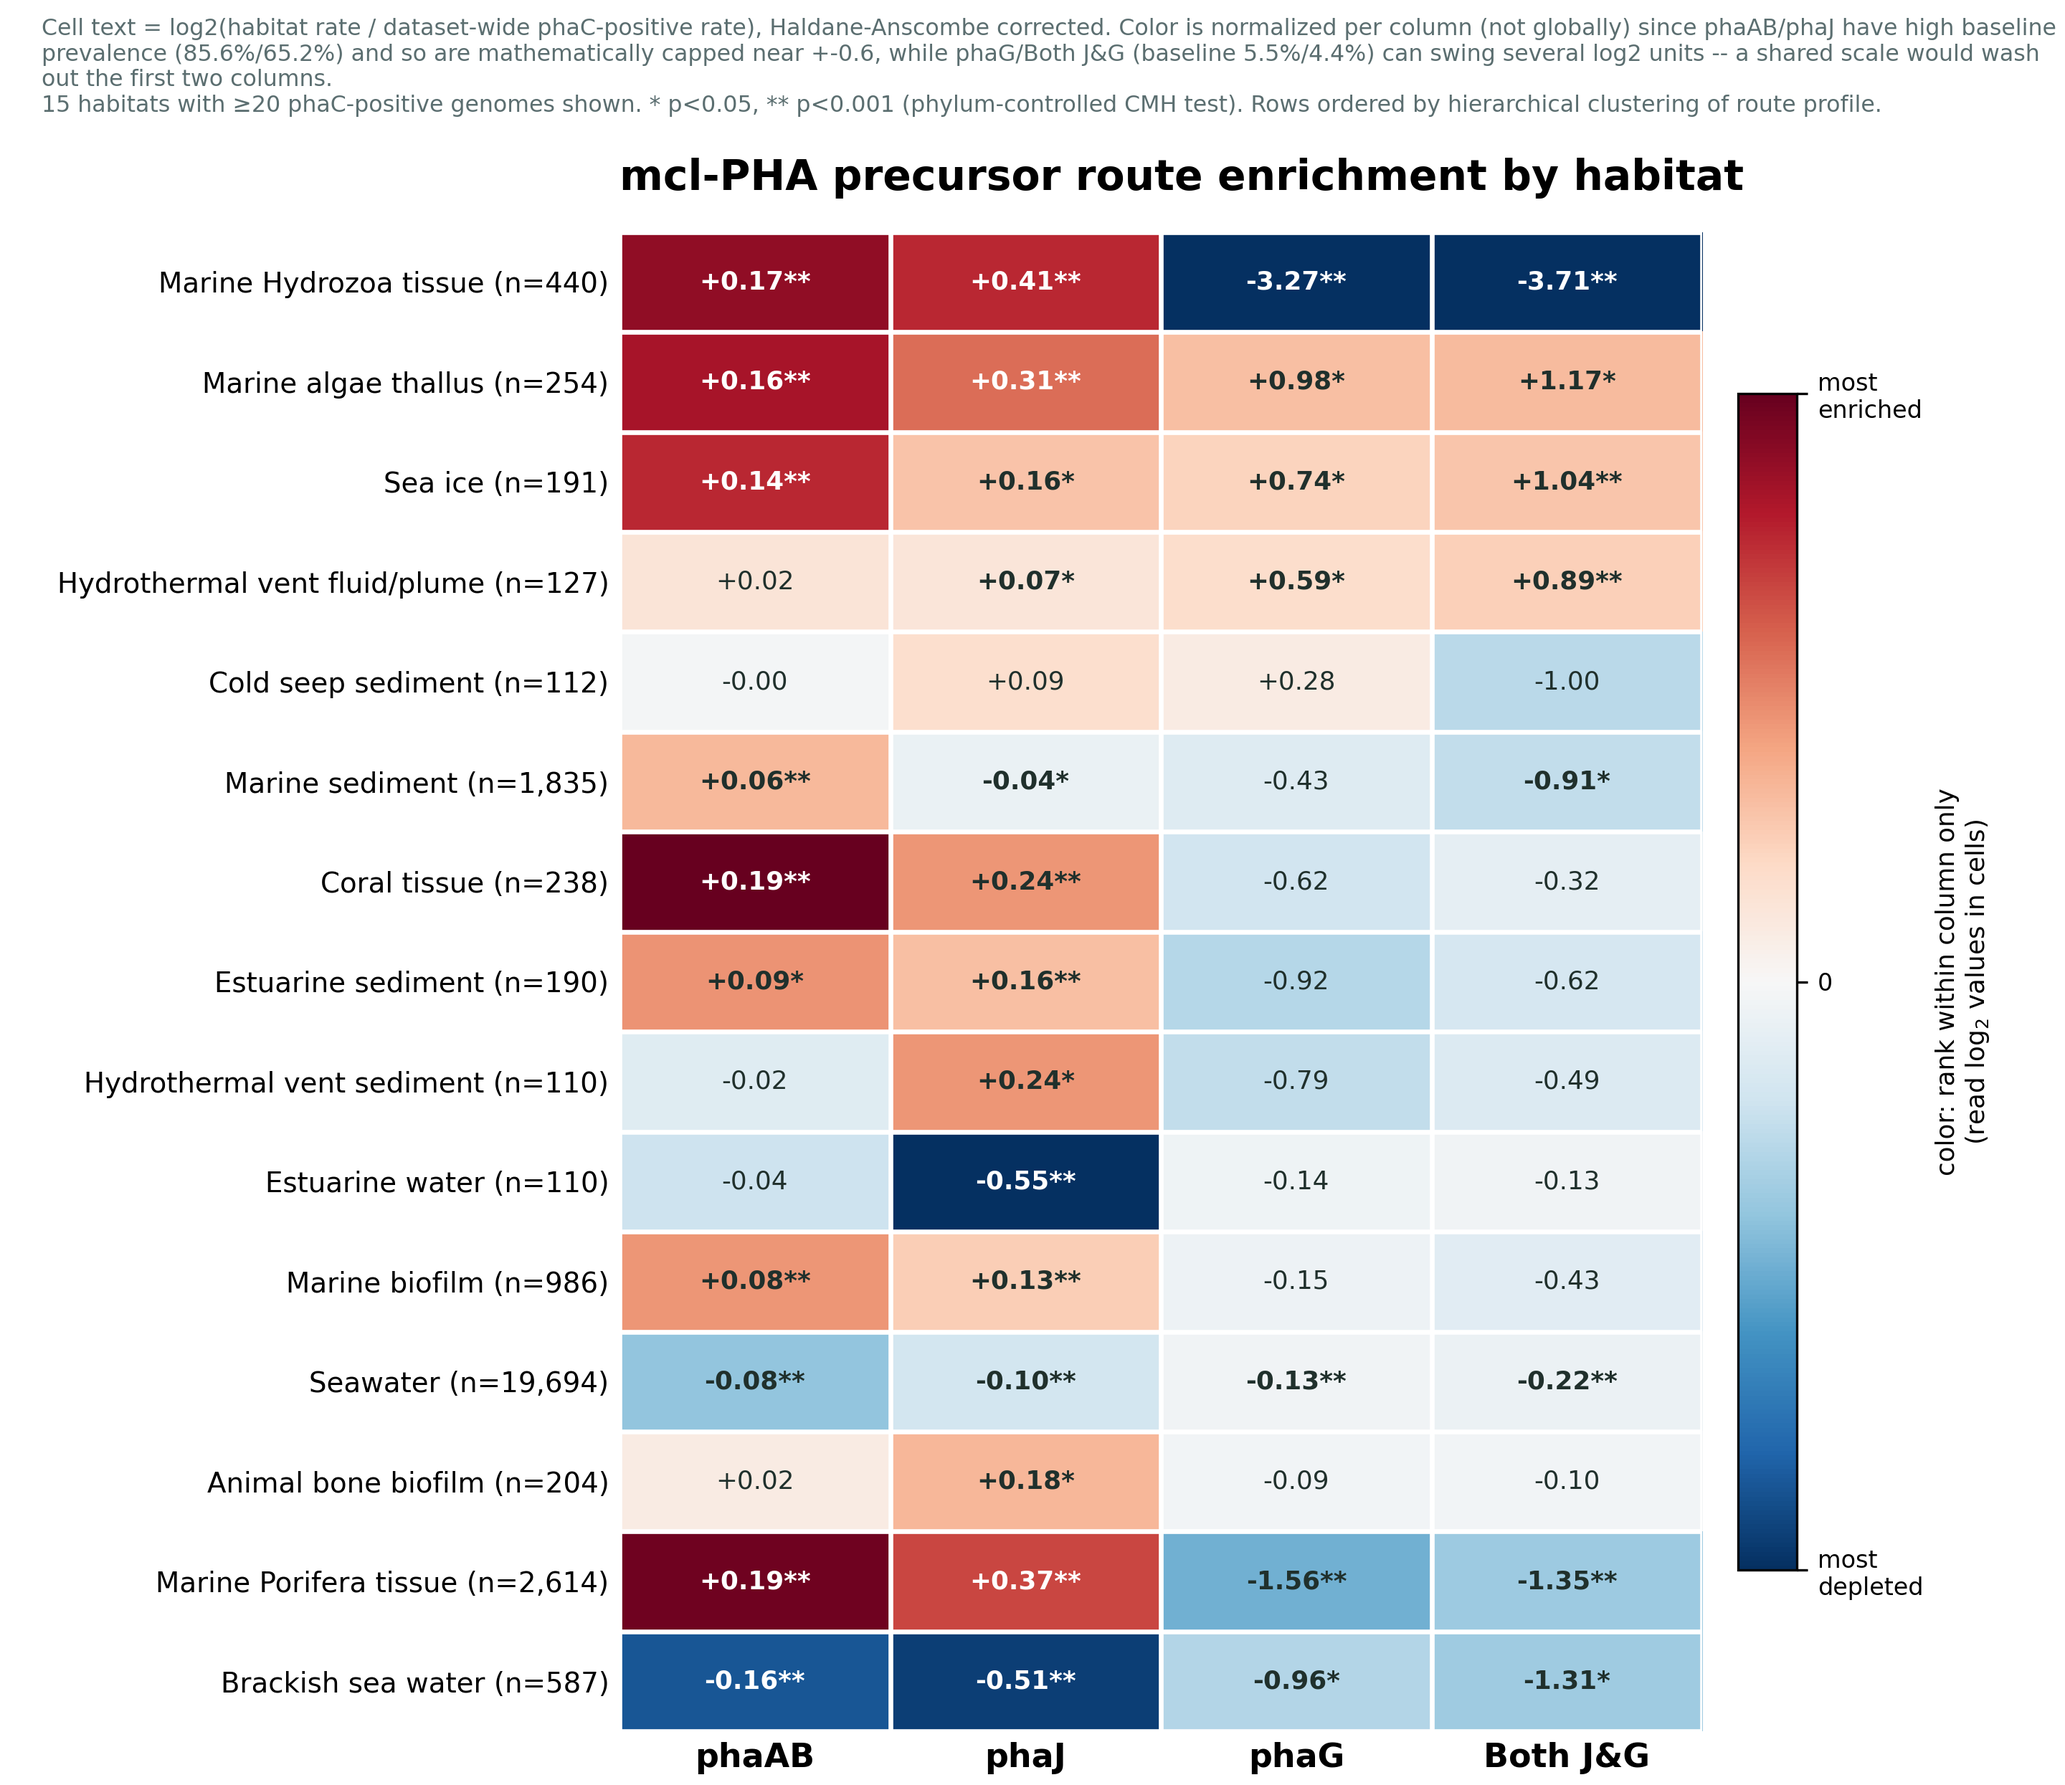
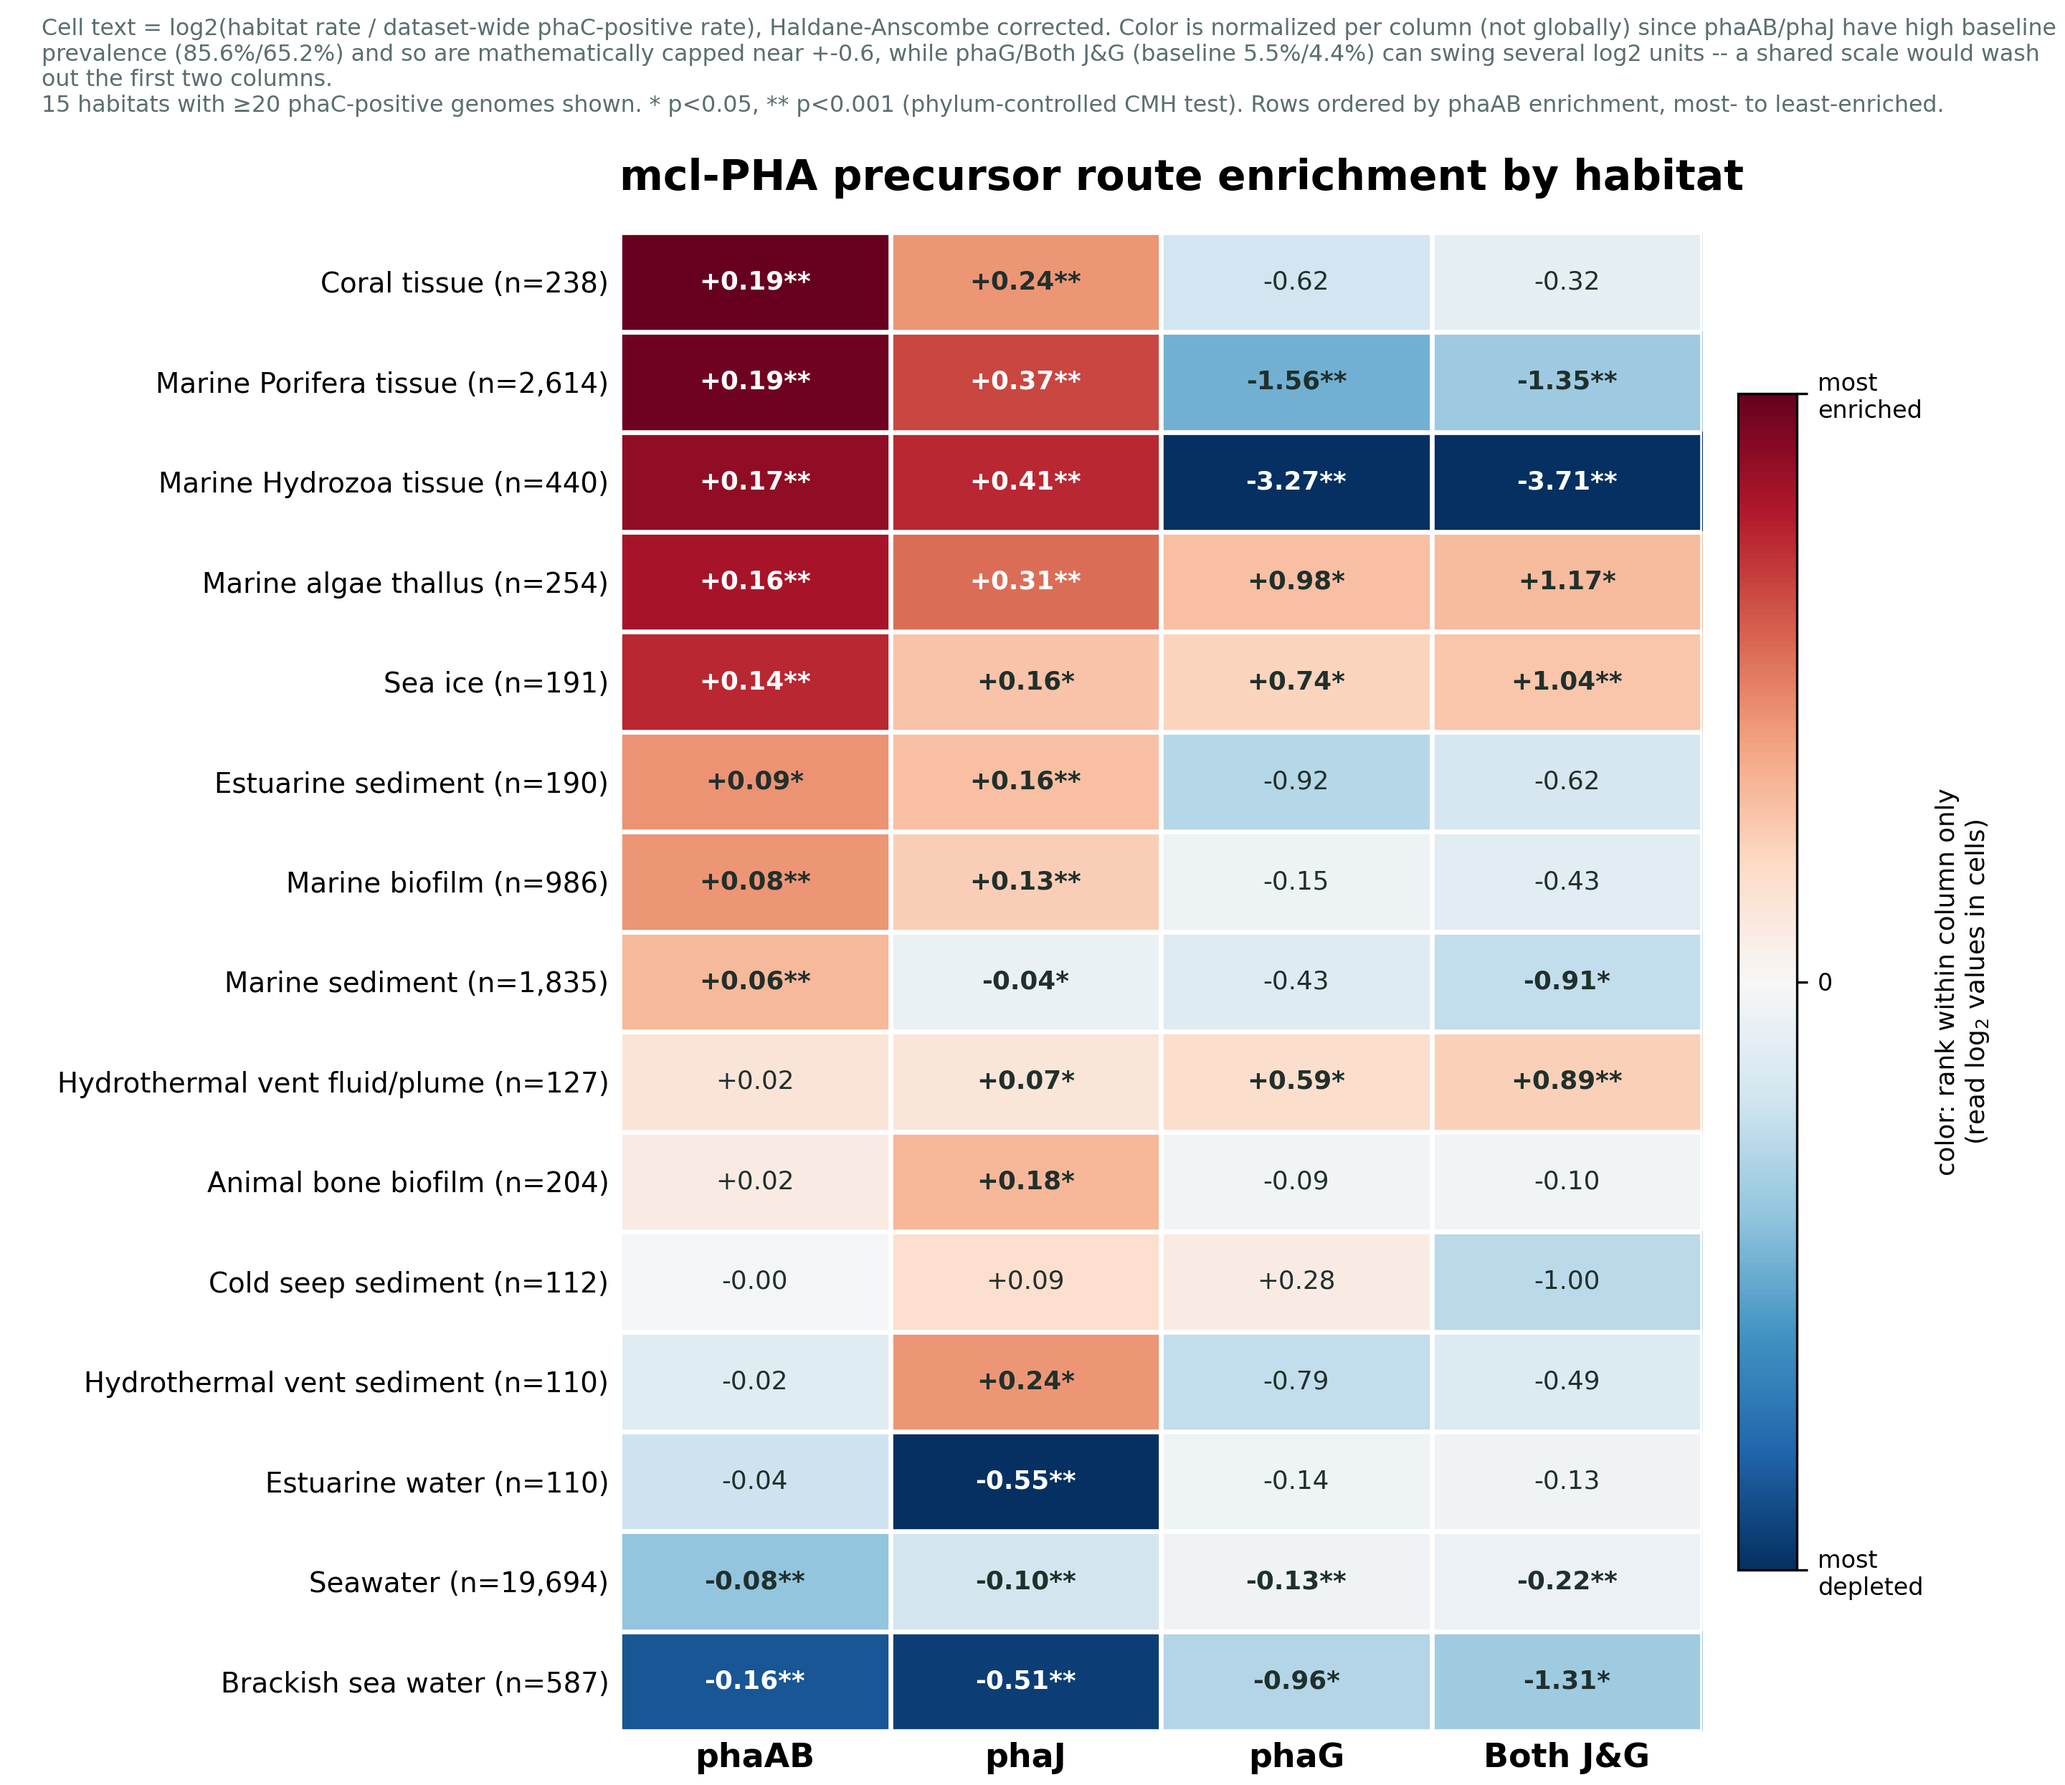
Sort mcl-PHA route habitat heatmap rows by phaAB enrichment for readability

diff --git a/figures/scripts/plot_phac_mcl_route_habitat_heatmap.py b/figures/scripts/plot_phac_mcl_route_habitat_heatmap.py
@@ -27,10 +27,11 @@ avoids -inf for the (rare) habitat/route combination with zero positives,
 matching a standard small-count correction rather than leaving those cells
 undefined.
 
-Rows are ordered by average-linkage hierarchical clustering on each
-habitat's 4-column enrichment vector, so habitats with similar route
-profiles land next to each other instead of in an arbitrary or purely
-alphabetical order.
+Rows are ordered by the phaAB column, most-enriched to most-depleted --
+simplest single sort that still leaves obviously-related habitats (the
+host-tissue depletions, the estuarine/brackish depletions) clustered
+together in this dataset, and easier to read top-to-bottom than a
+clustering-order row axis.
 
 Significance: same phylum-controlled Cochran-Mantel-Haenszel test as
 plot_phac_mcl_precursor_strategy.py's habitat table (via _stats_utils.py),
@@ -54,7 +55,6 @@ import matplotlib
 matplotlib.use('Agg')
 import matplotlib.pyplot as plt
 import numpy as np
-from scipy.cluster.hierarchy import linkage, leaves_list
 
 sys.path.insert(0, str(Path(__file__).resolve().parent))
 from _stats_utils import mantel_haenszel
@@ -184,14 +184,11 @@ with open(out_tsv, 'w', newline='') as f:
 print(f'\nwrote {out_tsv} ({len(rows_out)} habitats)')
 
 # ---------------------------------------------------------------------
-# 4. row order via hierarchical clustering on each habitat's 4-route vector
+# 4. row order: by phaAB enrichment, most-enriched to most-depleted
 # ---------------------------------------------------------------------
 habitats = [r['habitat'] for r in rows_out]
 mat = np.array([[enrichment[h][route] for route in ROUTES] for h in habitats])
-if len(habitats) >= 3:
-    order = leaves_list(linkage(mat, method='average', metric='euclidean'))
-else:
-    order = np.arange(len(habitats))
+order = np.argsort(-mat[:, ROUTES.index('phaAB')])
 habitats_ordered = [habitats[i] for i in order]
 mat_ordered = mat[order]
 
@@ -248,7 +245,7 @@ fig.text(0.02, 0.99,
           f'(85.6%/65.2%) and so are mathematically capped near +-0.6, while phaG/Both J&G (baseline '
           f'5.5%/4.4%) can swing several log2 units -- a shared scale would wash out the first two columns.\n'
           f'{len(habitats_ordered)} habitats with ≥{MIN_PHAC_N} phaC-positive genomes shown. '
-          f'* p<0.05, ** p<0.001 (phylum-controlled CMH test). Rows ordered by hierarchical clustering of route profile.',
+          f'* p<0.05, ** p<0.001 (phylum-controlled CMH test). Rows ordered by phaAB enrichment, most- to least-enriched.',
           transform=fig.transFigure, ha='left', va='top', fontsize=7.6, color='#5B6E70', wrap=True)
 
 fig.subplots_adjust(left=0.30, right=0.87, top=0.87, bottom=0.03)
